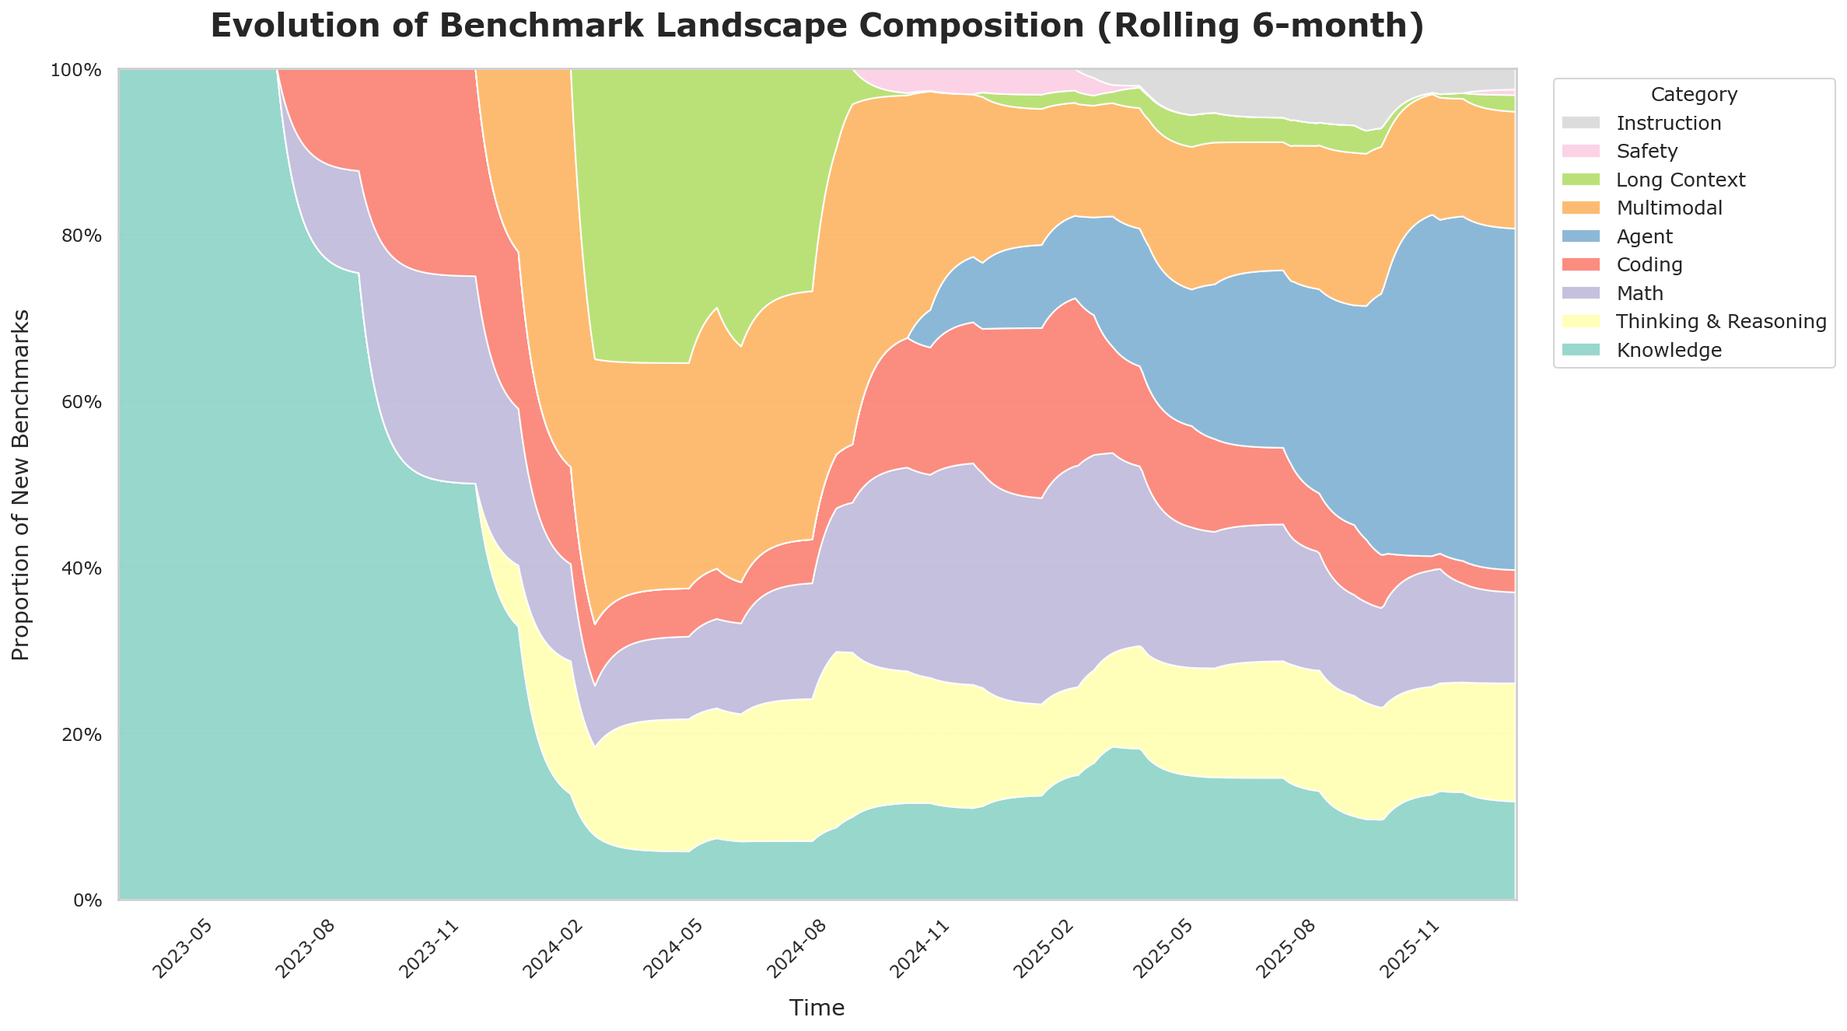
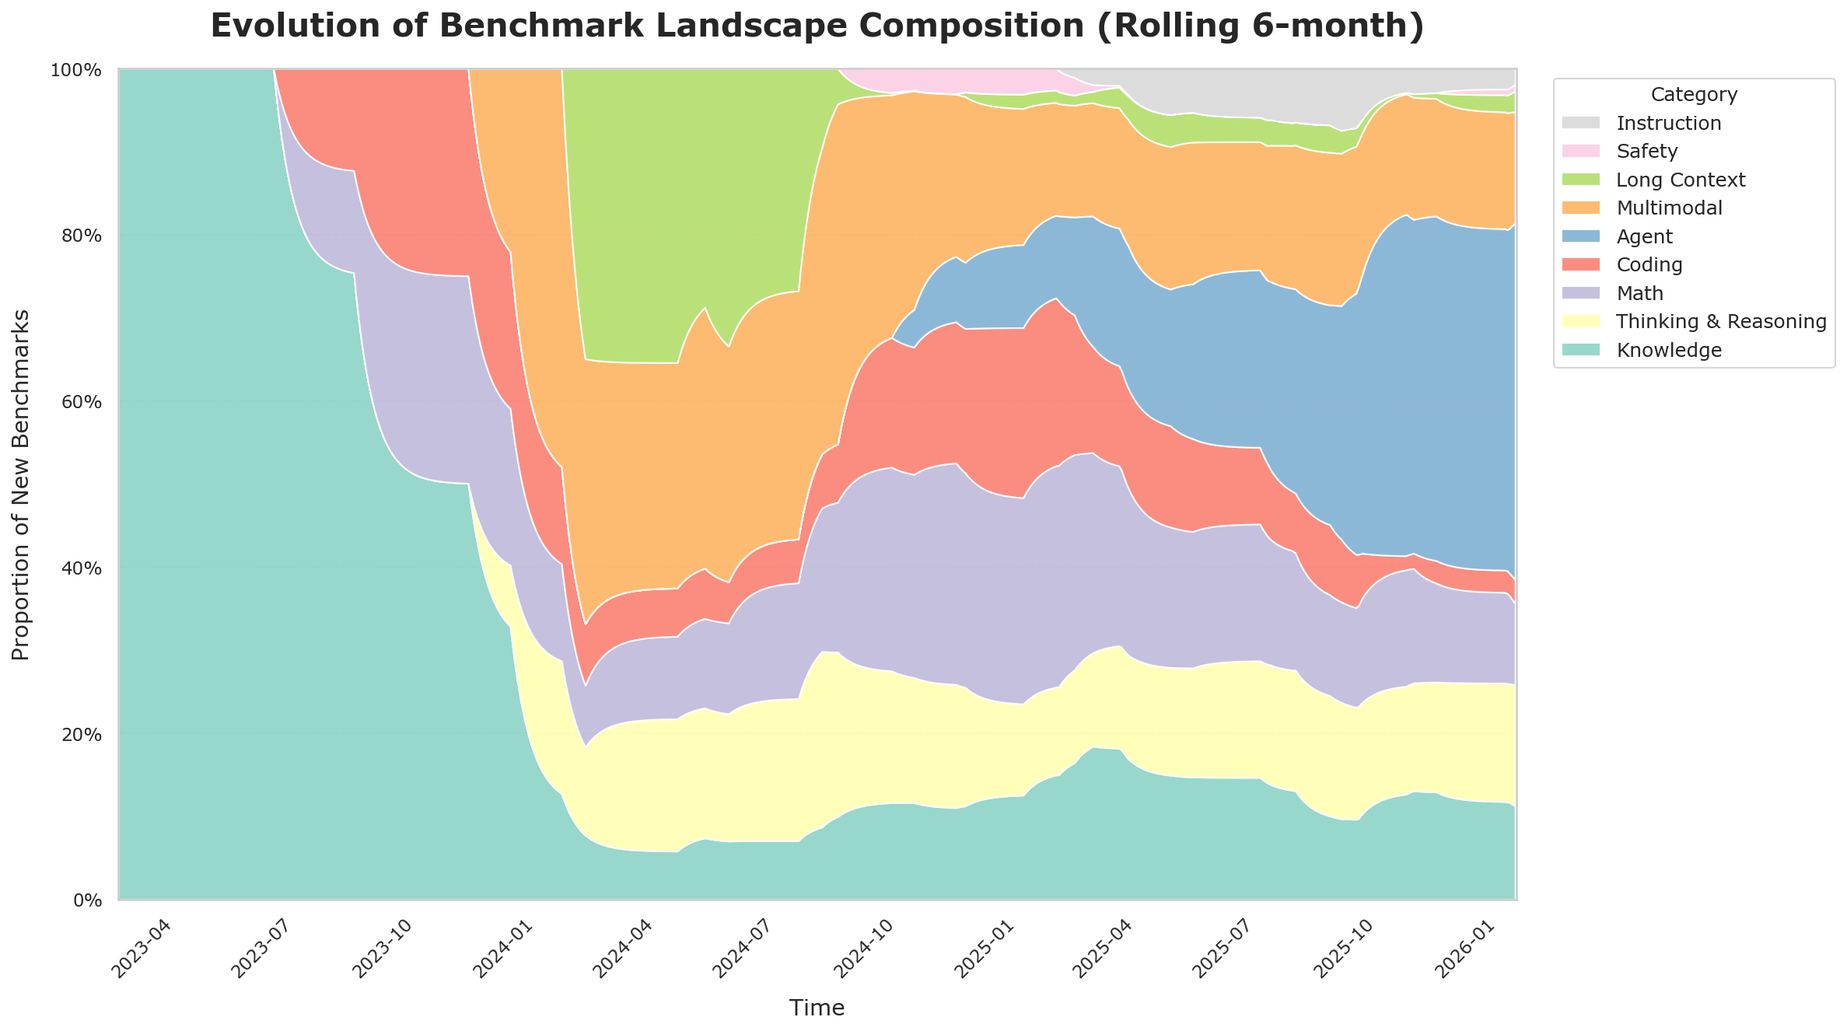
ADD: Claude Opus 4.6 Done

diff --git a/README.md b/README.md
@@ -2,9 +2,7 @@
 **Abstract**
 This repository provides a comprehensive analysis of the evolution of benchmarks used by frontier AI models. By tracking benchmarks cited in technical reports from major AI providers (OpenAI, Google, Anthropic, etc.), we visualize the shifting landscape of AI evaluation. The project offers data-driven insights into the growth of benchmark categories, model capabilities, and the taxonomy of evaluation metrics.
 
-This repo tracks which benchmarks frontier AI providers choose to highlight on their official model release pages over time, and visualizes the resulting shifts across categories (e.g., coding, multimodal, long-context, agents).
-
-**Scope & methodology:** we extract benchmark mentions from primary release pages (and only include report details when explicitly surfaced on those pages). Each benchmark is mapped to a single main category using documented prioritization logic.
+This repository tracks the benchmarks used by frontier AI models (OpenAI, Google, etc.) over time.
 
 ## Evolution Graph
 ![Benchmark Evolution](assets/benchmark_evolution.png)
@@ -36,7 +34,8 @@ The following table lists the models and their associated benchmarks.
 
 | Provider   | Model name          | link                                                                                                                | release date   | benchmarks                                                                                                                                                                                                                                                                                       |
 |:-----------|:--------------------|:--------------------------------------------------------------------------------------------------------------------|:---------------|:-------------------------------------------------------------------------------------------------------------------------------------------------------------------------------------------------------------------------------------------------------------------------------------------------|
-| OpenAI     | GPT-5.2             | https://openai.com/ko-KR/index/introducing-gpt-5-2/                                                                 | 2025-12-11     | GDPval, SWE-bench Pro, SWE-bench verified, GPQA, CharXiv, HMMT, FrontierMath, ARC-AGI, MRCR, ScreenSpot-Pro, TAU-2 bench, BrowseComp Long Context, GraphWalks, MMMU / MMMU Pro, Video-MMMU, Scale MCP-Atlas, Toolathlon, MMMLU, HLE (Humanity's Last Exam), SWE-Lancer                           |
+| Anthropic  | Claude 4.6 (Opus)   | https://www.anthropic.com/news/claude-opus-4-6                                                                      | 2026-02-05     | GDPval-AA, Terminal-bench, SWE-bench verified, OSWorld, TAU-2 bench, MCP-Atlas, BrowseComp, Humanity's Last Exam, Finance Agent, ARC-AGI-2, GPQA Diamond, MMMU Pro, MMMLU, MRCR v2, OpenRCA, BigLaw Bench, CyberGym, Graphwalks, SWE-bench Multilingual, Vending-Bench 2, BioPipelineBench       |
+| OpenAI     | GPT-5.2             | https://openai.com/ko-KR/index/introducing-gpt-5-2/                                                                 | 2025-12-11     | GDPval, SWE-bench Pro, SWE-bench verified, GPQA, CharXiv, HMMT, FrontierMath, ARC-AGI, MRCR v2, ScreenSpot-Pro, TAU-2 bench, BrowseComp Long Context, GraphWalks, MMMU / MMMU Pro, Video-MMMU, Scale MCP-Atlas, Toolathlon, MMMLU, HLE (Humanity's Last Exam), SWE-Lancer                        |
 | Anthropic  | Claude 4.5 (Opus)   | https://www.anthropic.com/news/claude-opus-4-5                                                                      | 2025-11-24     | SWE-bench verified, Terminal-Bench 2.0, TAU-2 bench, Scale MCP-Atlas, OSWorld, ARC-AGI-2, GPQA Diamond, MMMU / MMMU Pro, MMMLU, SWE-bench Multilingual, Aider Polyglot, BrowseComp-Plus, Vending-Bench                                                                                           |
 | Google     | Gemini 3.0          | https://blog.google/products-and-platforms/products/gemini/gemini-3/#note-from-ceo                                  | 2025-11-18     | HLE (Humanity's Last Exam), ARC-AGI, GPQA, AIME, MathArena Apex, MMMU / MMMU Pro, ScreenSpot-Pro, CharXiv, OmniDocBench 1.5, Video-MMMU, LiveCodeBench, Terminal-Bench 2.0, SWE-bench verified, TAU-2 bench, Vending-Bench 2, FACTS Benchmark suite, SimpleQA, MMMLU, Global PIQA, MRCR, LMArena |
 | OpenAI     | GPT-5.1             | https://openai.com/ko-KR/index/gpt-5-1/                                                                             | 2025-11-12     | nan                                                                                                                                                                                                                                                                                              |
@@ -53,8 +52,8 @@ The following table lists the models and their associated benchmarks.
 | OpenAI     | o3-mini             | https://openai.com/ko-KR/index/openai-o3-mini/                                                                      | 2025-01-31     | AIME, GPQA, FrontierMath, Codeforces, SWE-bench verified, LiveBench Coding, MMLU / MMLU-Pro, MATH, MGSM, SimpleQA, STEM                                                                                                                                                                          |
 | Google     | Gemini 2.0          | https://blog.google/innovation-and-ai/models-and-research/google-deepmind/google-gemini-ai-update-december-2024/    | 2024-12-11     | MMLU / MMLU-Pro, Natural2Code, Bird-SQL, LiveCodeBench, FACTS Grounding, MATH, HiddenMath, GPQA, MRCR, MMMU / MMMU Pro, Vibe-Eval, CoVoST 2, EgoSchema, WebVoyager                                                                                                                               |
 | Anthropic  | Claude 3.5 Haiku    | https://www.anthropic.com/news/3-5-models-and-computer-use                                                          | 2024-10-23     | GPQA Diamond, MMLU / MMLU-Pro, HumanEval, MATH, AIME, MMMU / MMMU Pro, SWE-bench verified, Tau-bench, OSWorld                                                                                                                                                                                    |
-| OpenAI     | o1-mini             | https://openai.com/index/openai-o1-mini-advancing-cost-efficient-reasoning/                                         | 2024-09-12     | Codeforces, HumanEval, Cybersecurity CTFs, MMLU / MMLU-Pro, GPQA, MATH, AIME, Jailbreak Eval                                                                                                                                                                                                     |
 | OpenAI     | o1                  | https://openai.com/ko-KR/index/learning-to-reason-with-llms/                                                        | 2024-09-12     | IMO, AIME, Codeforces, GPQA, MATH, MathVista, MMMU / MMMU Pro, MMLU / MMLU-Pro                                                                                                                                                                                                                   |
+| OpenAI     | o1-mini             | https://openai.com/index/openai-o1-mini-advancing-cost-efficient-reasoning/                                         | 2024-09-12     | Codeforces, HumanEval, Cybersecurity CTFs, MMLU / MMLU-Pro, GPQA, MATH, AIME, Jailbreak Eval                                                                                                                                                                                                     |
 | Anthropic  | Claude 3.5 Sonnet   | https://www.anthropic.com/news/claude-3-5-sonnet                                                                    | 2024-06-21     | MMLU / MMLU-Pro, GPQA, HumanEval, GSM8K, MATH, MGSM, DROP, Big-Bench Hard, MathVista, AI2D, MMMU / MMMU Pro, DocVQA, ChartQA                                                                                                                                                                     |
 | OpenAI     | GPT-4o              | https://openai.com/ko-KR/index/hello-gpt-4o/                                                                        | 2024-05-13     | MMLU / MMLU-Pro, GPQA, MATH, HumanEval, MGSM, DROP, M3Exam, MMMU / MMMU Pro, MathVista, AI2D, ChartQA, DocVQA, ActivityNet, EgoSchema                                                                                                                                                            |
 | Anthropic  | Claude 3            | https://www.anthropic.com/news/claude-3-family                                                                      | 2024-03-04     | MMLU / MMLU-Pro, GPQA, GSM8K, MATH, MGSM, HumanEval, DROP, Big-Bench Hard, ARC-AGI, HellaSwag, MMMU / MMMU Pro, AI2D, Needle In A Haystack, MathVista, DocVQA, ChartQA                                                                                                                           |
@@ -62,8 +61,8 @@ The following table lists the models and their associated benchmarks.
 | Google     | gemini 1.0          | https://blog.google/innovation-and-ai/technology/ai/google-gemini-ai/                                               | 2023-12-06     | MMLU / MMLU-Pro, Big-Bench Hard, DROP, HellaSwag, GSM8K, MATH, HumanEval, Natural2Code, MMMU / MMMU Pro, VQAv2, TextVQA, DocVQA, Infographic VQA, MathVista, VATEX, MCQA, CoVoST 2, FLEURS                                                                                                       |
 | Anthropic  | Claude 2.1          | https://www.anthropic.com/news/claude-2-1                                                                           | 2023-11-21     | nan                                                                                                                                                                                                                                                                                              |
 | Anthropic  | Claude 2            | https://www.anthropic.com/news/claude-2                                                                             | 2023-07-11     | Uniform Bar Exam, GRE, HumanEval, GSM8K                                                                                                                                                                                                                                                          |
-| OpenAI     | GPT-4               | https://openai.com/ko-KR/index/gpt-4/                                                                               | 2023-03-14     | Uniform Bar Exam, Biology Olympiad                                                                                                                                                                                                                                                               |
 | Anthropic  | Claude 1            | https://www.anthropic.com/news/introducing-claude                                                                   | 2023-03-14     | nan                                                                                                                                                                                                                                                                                              |
+| OpenAI     | GPT-4               | https://openai.com/ko-KR/index/gpt-4/                                                                               | 2023-03-14     | Uniform Bar Exam, Biology Olympiad                                                                                                                                                                                                                                                               |
 | OpenAI     | GPT-3.5             | https://openai.com/ko-KR/index/chatgpt/                                                                             | 2022-11-30     | nan                                                                                                                                                                                                                                                                                              |
 
 ## Benchmark Taxonomy
@@ -97,7 +96,7 @@ Classification of various benchmarks by category.
 | FrontierMath               | Others(Epoch AI, backed by Google)               |             | O                      | O      |          |         |              |                |          |               | Math                 | Extremely difficult advanced math reasoning.                         | https://epoch.ai/frontiermath                                                             |
 | GDPval                     | OpenAI                                           |             | O                      |        |          |         |              |                | O        |               | Safety               | Policy adherence and risk evaluation.                                | https://openai.com/index/measuring-the-performance-of-our-models-on-real-world-tasks/     |
 | Global PIQA                | Academia                                         | O           |                        |        |          |         |              |                |          |               | Knowledge            | Culturally diverse commonsense knowledge.                            | https://mrlbenchmarks.github.io/                                                          |
-| GPQA                       | Academia, Others(Cohere, Anthropic)              |             | O                      |        |          |         |              |                |          |               | Thinking & Reasoning | Graduate-level expert-written reasoning.                             | https://github.com/idavidrein/gpqa                                                        |
+| GPQA                       | Anthropic, Academia, Cohere                      |             | O                      |        |          |         |              |                |          |               | Thinking & Reasoning | Graduate-level expert-written reasoning.                             | https://github.com/idavidrein/gpqa                                                        |
 | GraphWalks                 | OpenAI                                           |             | O                      |        |          |         |              |                |          |               | Thinking & Reasoning | Logic over graph structures.                                         | https://huggingface.co/datasets/openai/graphwalks                                         |
 | GSM8K                      | OpenAI                                           |             | O                      | O      |          |         |              |                |          |               | Math                 | Grade school math word problems.                                     | https://github.com/openai/grade-school-math                                               |
 | MGSM                       | Google, Academia                                 |             |                        |        |          |         |              |                |          |               | Math                 | Multilingual grade school math problems.                             | https://github.com/google-research/google-research/tree/master/mgsm                       |
@@ -152,7 +151,7 @@ Classification of various benchmarks by category.
 | ARC-AGI-2                  | Academia                                         |             | O                      |        |          |         |              |                |          |               | Thinking & Reasoning | Evaluates abstract reasoning and problem-solving via visual puzzles. | https://arxiv.org/abs/2505.11831                                                          |
 | BrowseComp-Plus            | Academia                                         | O           | O                      |        |          | O       | O            |                |          |               | Agent                | Evaluation benchmark for deep-research agents.                       | https://arxiv.org/abs/2508.06600                                                          |
 | Finance Agent              | Academia, Others(vals.ai)                        | O           | O                      |        |          |         |              | O              |          |               | Agent                | Real-world financial research tasks using SEC filings.               | https://vals.ai/finance-agent                                                             |
-| GPQA Diamond               | Academia, Others(Cohere, Anthropic)              |             | O                      |        |          |         |              |                |          |               | Thinking & Reasoning | High-quality subset of GPQA with validated answers.                  | https://arxiv.org/abs/2311.12022                                                          |
+| GPQA Diamond               | Anthropic, Academia, Others(Cohere)              |             | O                      |        |          |         |              |                |          |               | Thinking & Reasoning | High-quality subset of GPQA with validated answers.                  | https://arxiv.org/abs/2311.12022                                                          |
 | GRE                        | Academia, Others(ETS)                            | O           | O                      |        |          |         |              |                |          |               | Knowledge            | Standardized test for graduate school admission.                     | https://www.ets.org/gre                                                                   |
 | MATH 500                   | Academia                                         |             | O                      | O      |          |         |              |                |          |               | Math                 | Challenging 500-problem subset of the MATH dataset.                  | https://arxiv.org/abs/2103.03874                                                          |
 | OSWorld                    | Academia                                         |             |                        |        |          | O       | O            |                |          |               | Agent                | Multimodal agents in real computer environments.                     | https://os-world.github.io                                                                |
@@ -163,6 +162,12 @@ Classification of various benchmarks by category.
 | SWE-bench                  | Academia                                         |             | O                      |        | O        | O       |              |                |          |               | Agent                | Solving real-world software engineering issues (Base).               | https://www.swebench.com/                                                                 |
 | SWE-bench Pro              | Others(Scale AI)                                 |             | O                      |        | O        | O       |              |                |          |               | Agent                | Long-horizon software engineering tasks in large codebases.          | https://scale.com/blog/swe-bench-pro                                                      |
 | SWE-Lancer                 | OpenAI                                           |             | O                      |        | O        | O       |              |                |          |               | Agent                | Freelance software engineering tasks with monetary rewards.          | https://openai.com/index/swe-lancer-benchmark/                                            |
+| GDPval-AA                  | OpenAI                                           |             |                        |        |          | O       |              |                |          |               | Agent                | Real-world economically valuable knowledge work.                     | https://openai.com/index/measuring-the-performance-of-our-models-on-real-world-tasks/     |
+| MRCR v2                    | OpenAI                                           |             | O                      |        |          |         |              | O              |          |               | Long Context         | Multi-Round Coreference Resolution version 2.                        | https://arxiv.org/abs/2409.12640                                                          |
+| OpenRCA                    | Academia, Others(Microsoft)                      |             |                        |        | O        |         |              |                |          |               | Coding               | Root cause analysis of software failures.                            | https://github.com/microsoft/OpenRCA                                                      |
+| BigLaw Bench               | Others(Harvey)                                   |             |                        |        |          | O       |              |                |          |               | Agent                | Real-world legal tasks mirroring billable work.                      | https://harvey.ai/                                                                        |
+| CyberGym                   | Academia                                         |             |                        |        | O        |         |              |                |          |               | Coding               | Evaluating real-world cybersecurity capabilities.                    | https://arxiv.org/abs/2506.02548                                                          |
+| BioPipelineBench           | Anthropic                                        |             |                        |        |          | O       |              |                |          |               | Agent                | Execution of complex bioinformatics workflows.                       | https://www.anthropic.com/                                                                |
 
 ## Categorization Logic
 To simplify visualizations, each benchmark is assigned a single **Main Category**. When a benchmark maps to multiple categories, the following priority logic is applied:
